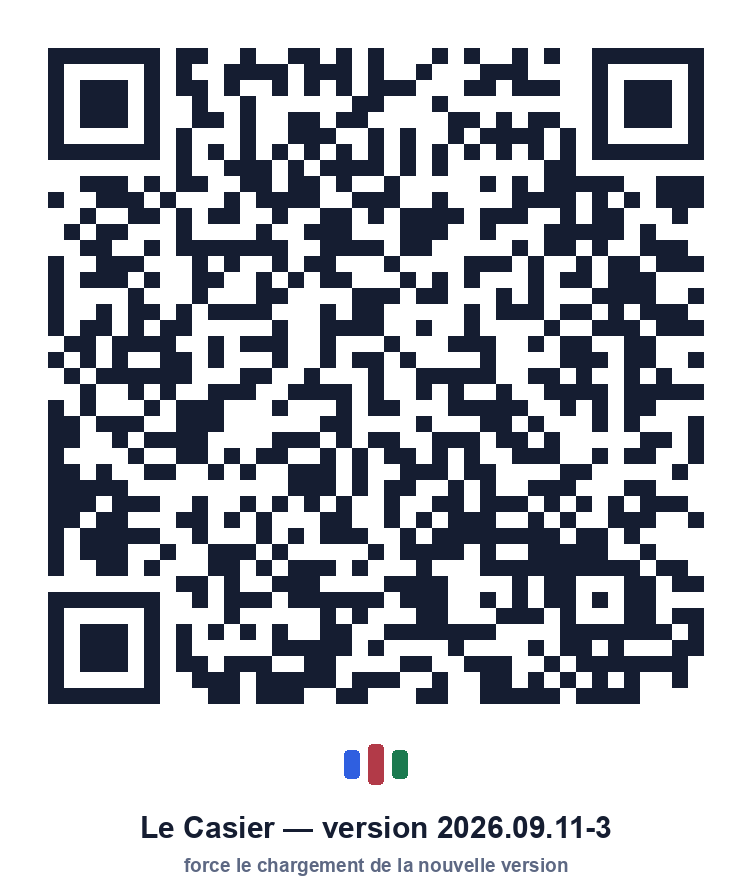
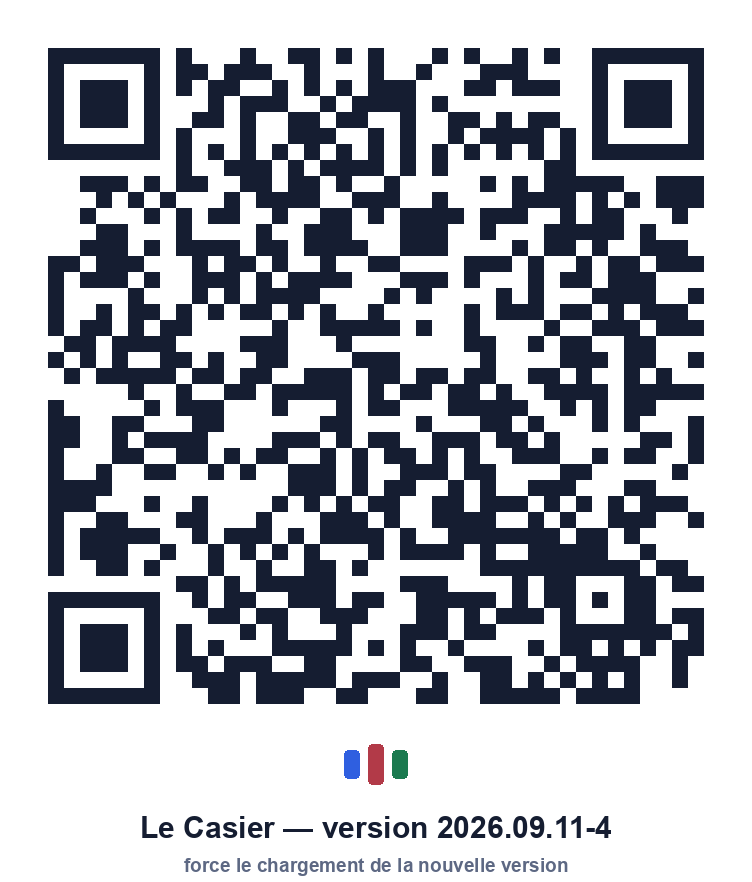
Ne créer une conversation qu'au premier message
Toucher « Écrire » sur une annonce créait aussitôt une conversation,
même si rien n'était envoyé. Trois articles consultés laissaient trois
lignes dans Messages, qui finissait par ressembler à la liste des
articles d'un vendeur plutôt qu'à des échanges.

L'écran s'ouvre désormais sans rien enregistrer ; c'est le premier
message envoyé qui fait exister la conversation. Les fils dépourvus de
message, hérités des versions précédentes, ne sont plus listés.

diff --git a/index.html b/index.html
@@ -872,7 +872,7 @@ label .opt{font-weight:400;color:var(--faint)}
   // secrets de la fonction serveur.
   var CLE_PUSH = "BPct_TKB40uTbAGg0UzNCCMcbk60LYQaGHmH0XqXWcTR_Lo7qj2U6wm37kCgpWWynKLWarLx3lWfhRR40eizzkM";
 
-  var VERSION_APP = "2026.09.11-3";   // affiché en bas : permet de savoir ce que tourne un téléphone
+  var VERSION_APP = "2026.09.11-4";   // affiché en bas : permet de savoir ce que tourne un téléphone
   var PLAFOND_PRIX  = 40;   // € — fixé par la Maison des lycéens, pas par les élèves
   var PLANCHER_PRIX = 0.1;  // € — en dessous, mieux vaut donner ou troquer
   var PAS_PRIX      = 0.05; // € — les prix vont de cinq centimes en cinq centimes
@@ -964,6 +964,7 @@ label .opt{font-weight:400;color:var(--faint)}
     fiche: null,        // annonce ouverte en plein écran
     fils: [],           // fils de discussion me concernant
     filOuvert: null,
+    filEnAttente: null,   // annonce dont la discussion n'a pas encore commencé
     messages: [],
     recherches: [],
     filtre: { q: "", mode: "", cat: "", niveau: "" },
@@ -1330,19 +1331,50 @@ label .opt{font-weight:400;color:var(--faint)}
 
   function ouvrirDiscussion(objetId) {
     if (!state.me) { toast("Créez votre compte pour écrire."); return; }
-    rpc("ouvrir_fil", { p_objet: objetId })
-      .then(function (id) {
-        fermerFiche();
-        state.onglet = "messages";
-        state.filOuvert = id;
-        return chargerFils().then(function () { return ouvrirFil(id); });
-      })
-      .then(function () { window.scrollTo(0, 0); })
-      .catch(echec);
+
+    // Une conversation existante s'ouvre ; sinon on prépare seulement
+    // l'écran. Créer le fil dès l'appui sur « Écrire » remplissait la
+    // liste de conversations sans un seul message.
+    var existant = null;
+    for (var i = 0; i < state.fils.length; i++) {
+      if (state.fils[i].objet === objetId) existant = state.fils[i].id;
+    }
+
+    fermerFiche();
+    state.onglet = "messages";
+    window.scrollTo(0, 0);
+
+    if (existant) {
+      state.filEnAttente = null;
+      state.filOuvert = existant;
+      ouvrirFil(existant);
+    } else {
+      state.filEnAttente = objetId;
+      state.filOuvert = null;
+      render();
+    }
   }
 
   function envoyer(texte) {
-    if (!state.filOuvert || !texte.trim()) return;
+    if (!texte.trim()) return;
+
+    // C'est le premier message qui fait exister la conversation.
+    if (!state.filOuvert && state.filEnAttente) {
+      var objet = state.filEnAttente;
+      rpc("ouvrir_fil", { p_objet: objet })
+        .then(function (id) {
+          state.filEnAttente = null;
+          state.filOuvert = id;
+          return rpc("envoyer_message", { p_fil: id, p_texte: texte });
+        })
+        .then(function () { return chargerMessages(state.filOuvert); })
+        .then(chargerFils)
+        .then(function () { render(); glisserEnBas(); })
+        .catch(echec);
+      return;
+    }
+
+    if (!state.filOuvert) return;
     rpc("envoyer_message", { p_fil: state.filOuvert, p_texte: texte })
       .then(function () { return chargerMessages(state.filOuvert); })
       .then(chargerFils)
@@ -2589,15 +2621,47 @@ label .opt{font-weight:400;color:var(--faint)}
       : d.toLocaleDateString("fr-FR", { day: "numeric", month: "short" });
   }
 
+  // Écran d'une conversation pas encore née : même apparence, mais rien
+  // n'est enregistré tant que le premier message n'est pas envoyé.
+  function vueNouvelleDiscussion() {
+    var o = trouver(state.filEnAttente);
+    if (!o) { state.filEnAttente = null; return vueMessages(); }
+    return (
+      '<div style="display:flex;align-items:center;gap:10px;padding:14px 0 10px">' +
+        '<button class="btn ghost" data-act="retour-messages" style="flex:none">Retour</button>' +
+        '<div style="min-width:0">' +
+          '<b style="display:block;font-size:14px;overflow:hidden;text-overflow:ellipsis;white-space:nowrap">' +
+            esc(o.titre) + "</b>" +
+          '<span style="font-size:12px;color:var(--faint)">avec ' + esc(o.proprietaire) +
+            (o.classe ? " · " + esc(o.classe) : "") + "</span>" +
+        "</div>" +
+        '<button class="btn ghost" data-ouvrir="' + o.id + '" style="flex:none;margin-left:auto">Voir</button>' +
+      "</div>" +
+      '<p class="rappel-rdv">Convenez d\'un créneau et retrouvez-vous <b>au CDI</b>. ' +
+      "Ne donnez ni adresse, ni numéro de téléphone : le rendez-vous se fixe ici.</p>" +
+      '<div class="discussion" id="discussion">' +
+        '<p class="empty" style="padding:26px 18px">Premier message : dites ce qui vous intéresse ' +
+        "et proposez un créneau.</p>" +
+      "</div>" +
+      '<form class="saisie" id="f-message">' +
+        '<textarea id="m-texte" rows="1" maxlength="800" placeholder="Votre message…" aria-label="Votre message"></textarea>' +
+        '<button class="btn primary" type="submit">Envoyer</button>' +
+      "</form>"
+    );
+  }
+
   function vueMessages() {
     if (!state.me) {
       return '<div class="panel"><h2>Vos discussions</h2>' +
         '<p class="sub">Créez votre compte pour écrire aux autres élèves et convenir d\'un rendez-vous.</p></div>';
     }
 
-    if (state.filOuvert) return vueDiscussion();
+    if (state.filOuvert || state.filEnAttente) return vueDiscussion();
+    // Un fil sans message n'a rien à montrer : reste des versions où il
+    // était créé dès l'appui sur « Écrire ».
+    var fils = state.fils.filter(function (f) { return !!f.dernierAuteur; });
 
-    if (!state.fils.length) {
+    if (!fils.length) {
       return '<h2 class="section-title">Messages</h2>' +
         '<div class="empty"><p>Aucune discussion pour l\'instant.</p>' +
         "<p style=\"font-size:13px\">Ouvrez une annonce et touchez « Écrire » pour convenir d'un rendez-vous.</p>" +
@@ -2607,10 +2671,10 @@ label .opt{font-weight:400;color:var(--faint)}
         '<button class="btn ghost" data-act="aller-catalogue">Parcourir le catalogue</button></div>';
     }
 
-    var html = '<h2 class="section-title">Messages <span>' + state.fils.length + "</span></h2>";
+    var html = '<h2 class="section-title">Messages <span>' + fils.length + "</span></h2>";
     html += '<div class="fils">';
-    for (var i = 0; i < state.fils.length; i++) {
-      var f = state.fils[i];
+    for (var i = 0; i < fils.length; i++) {
+      var f = fils[i];
       var o = trouver(f.objet) || {};
       var autre = (f.proprietaire === state.me.cle) ? f.demandeur : f.proprietaire;
       var m = state.membres[autre] || {};
@@ -2635,6 +2699,7 @@ label .opt{font-weight:400;color:var(--faint)}
   }
 
   function vueDiscussion() {
+    if (!state.filOuvert && state.filEnAttente) return vueNouvelleDiscussion();
     var f = null;
     for (var i = 0; i < state.fils.length; i++) if (state.fils[i].id === state.filOuvert) f = state.fils[i];
     if (!f) { state.filOuvert = null; return vueMessages(); }
@@ -4120,6 +4185,7 @@ label .opt{font-weight:400;color:var(--faint)}
     if (!b) return;
     state.onglet = b.getAttribute("data-onglet");
     state.filOuvert = null;
+    state.filEnAttente = null;
     render();
     if (state.onglet === "moi") rafraichirPush().then(render);
     // Les fils sont relus à l'ouverture de l'onglet : un chargement raté
@@ -4192,7 +4258,7 @@ label .opt{font-weight:400;color:var(--faint)}
     else if (act === "aller-depot") { state.onglet = "deposer"; render(); }
     else if (act === "deconnexion") deconnecter();
     else if (act === "ecrire") ouvrirDiscussion(id);
-    else if (act === "retour-messages") { state.filOuvert = null; render(); }
+    else if (act === "retour-messages") { state.filOuvert = null; state.filEnAttente = null; render(); }
     else if (act === "reinitialiser") reinitialiser();
     else if (act === "push-on") activerPush();
     else if (act === "push-off") desactiverPush();

diff --git a/sw.js b/sw.js
@@ -5,7 +5,7 @@
 // première réponse reçue, définitivement. Seuls les fichiers de
 // l'application — qui ne changent qu'à une publication — sont cachés.
 
-const VERSION = "casier-20260911-3";
+const VERSION = "casier-20260911-4";
 const COQUILLE = [
   "./",
   "./index.html",
